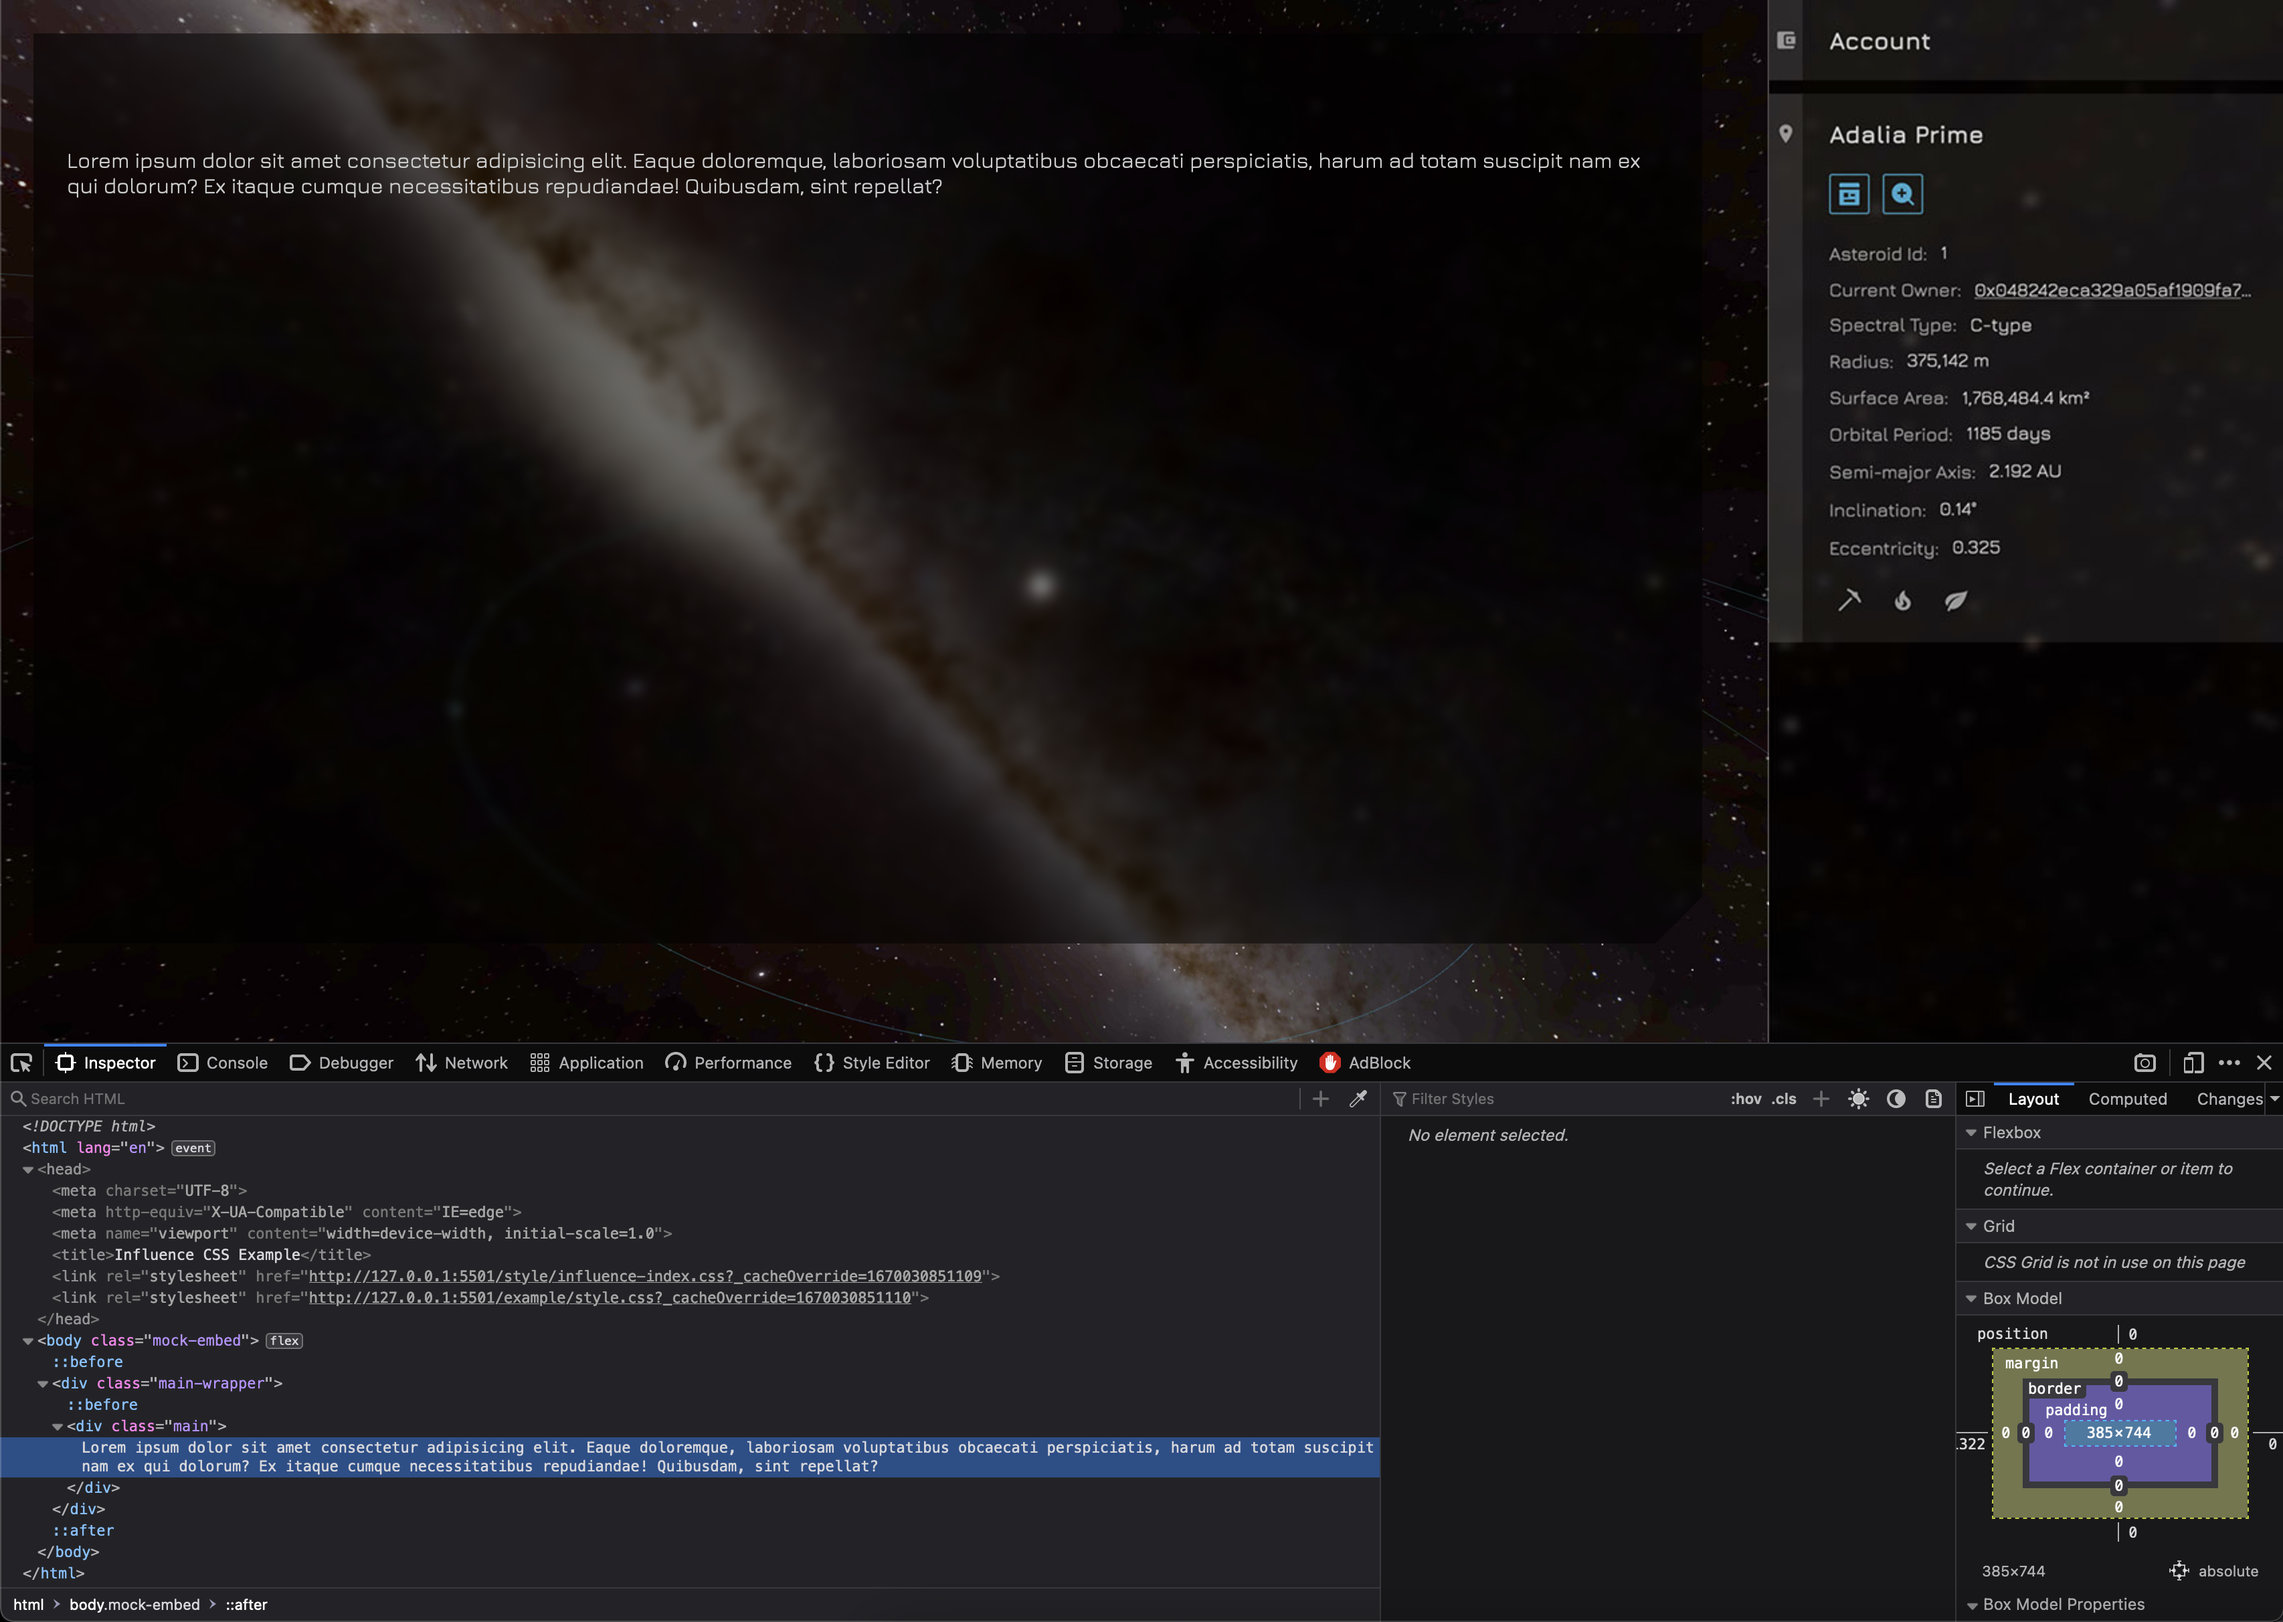
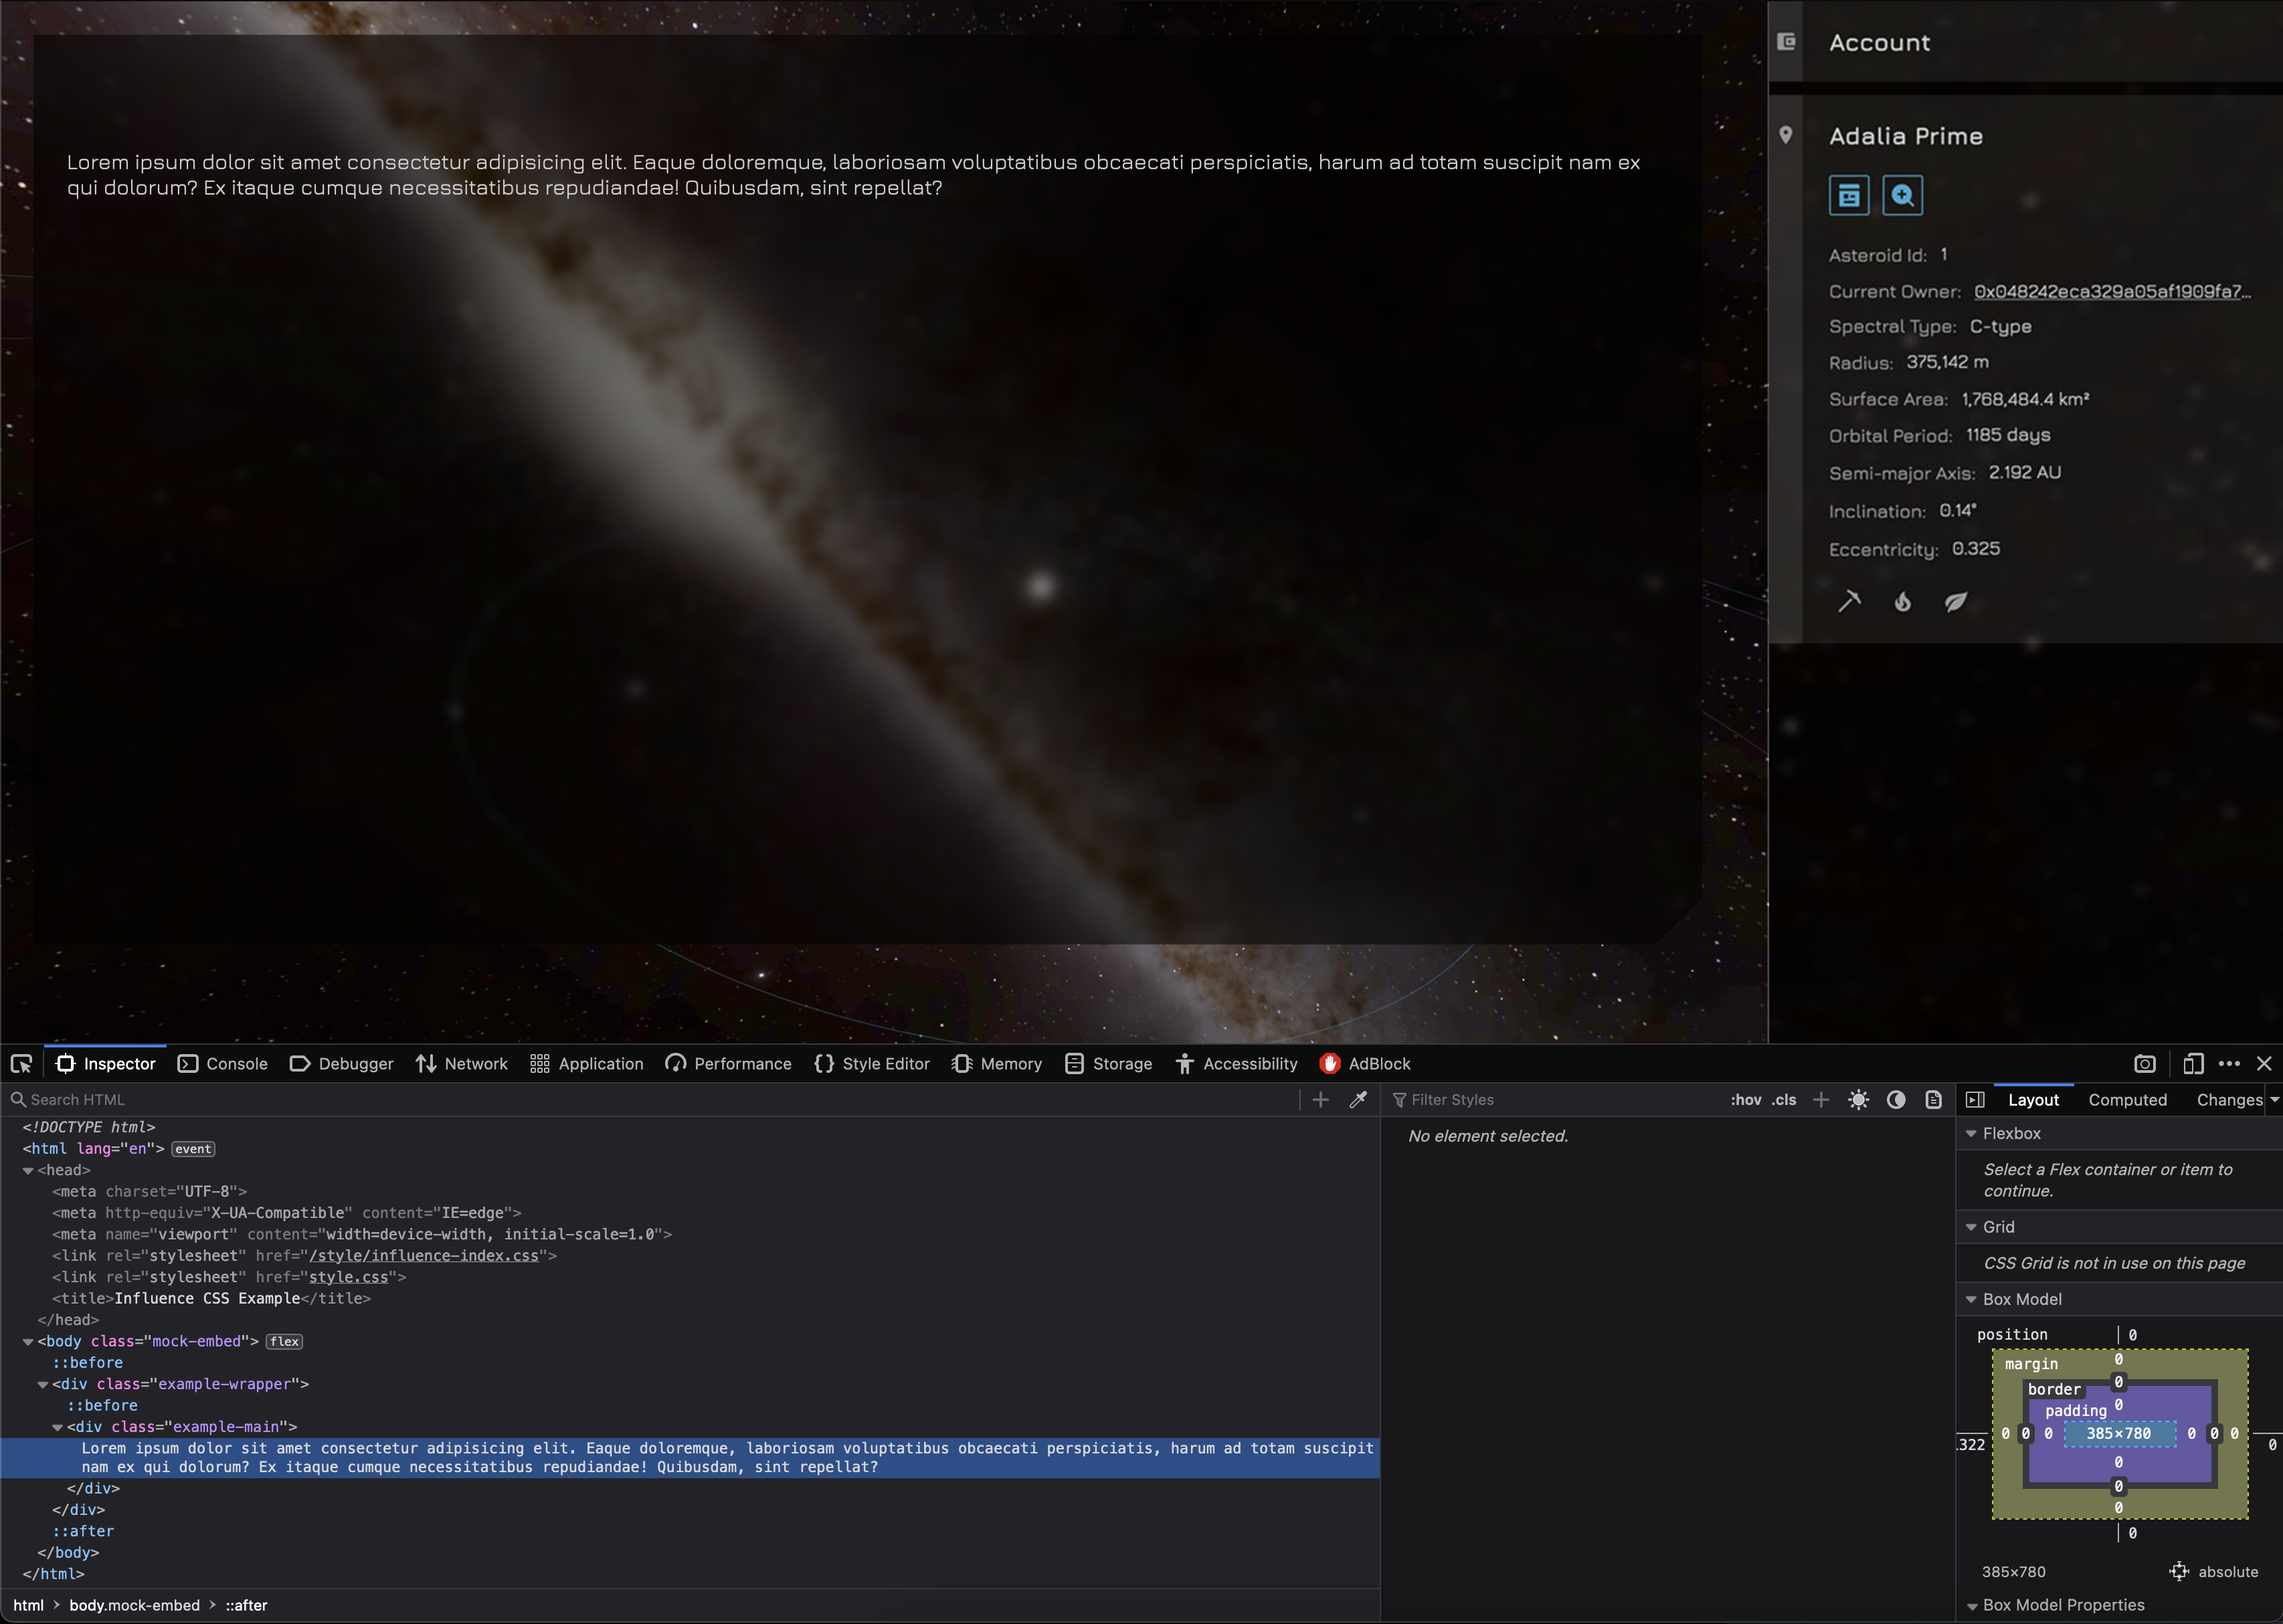
Update example class names to be more specific

diff --git a/example/style.css b/example/style.css
@@ -31,14 +31,14 @@ body.mock-embed {
     padding: 25px calc(385px + 50px) 75px 25px;
 }
 
-body.mock-embed .main-wrapper {
+body.mock-embed .example-wrapper {
     max-width: 1400px;
     padding: calc(60px + 25px) 35px 35px 25px;
     position: relative;
     width: 100%;
 }
 
-body.mock-embed .main-wrapper::before {
+body.mock-embed .example-wrapper::before {
     backdrop-filter: blur(4px);
     background-color: rgba(0, 0, 0, 0.5);
     bottom: 0;
@@ -50,7 +50,7 @@ body.mock-embed .main-wrapper::before {
     top: 0;
 }
 
-body.mock-embed .main {
+body.mock-embed .example-main {
     height: 100%;
     overflow: auto;
     position: relative;

diff --git a/example/index.html b/example/index.html
@@ -9,8 +9,8 @@
     <title>Influence CSS Example</title>
 </head>
 <body class="mock-embed">
-    <div class="main-wrapper">
-        <div class="main">
+    <div class="example-wrapper">
+        <div class="example-main">
             Lorem ipsum dolor sit amet consectetur adipisicing elit. Eaque doloremque, laboriosam voluptatibus obcaecati perspiciatis, harum ad totam suscipit nam ex qui dolorum? Ex itaque cumque necessitatibus repudiandae! Quibusdam, sint repellat?
         </div>
     </div>

diff --git a/README.md b/README.md
@@ -6,7 +6,7 @@ Styling recommended for embedding tools and content into the Influence game clie
 
 ## Dev notes
 
-The [/example](./example) folder contains a minimal page and styling that can help you to preview a page, before trying to embed it in-game. The actual contents of your page should be placed inside the `<div class="main">` element. You can then use the following classes on the `<body>` element:
+The [/example](./example) folder contains a minimal page and styling that can help you to preview a page, before trying to embed it in-game. The actual contents of your page should be placed inside the `<div class="example-main">` element. You can then use the following classes on the `<body>` element:
 
 - `body.mock-embed` will mock a background that looks similar to the game layout, so you can test your content as if it were embedded in-game:
 <img src="./README.png" width="100%">
